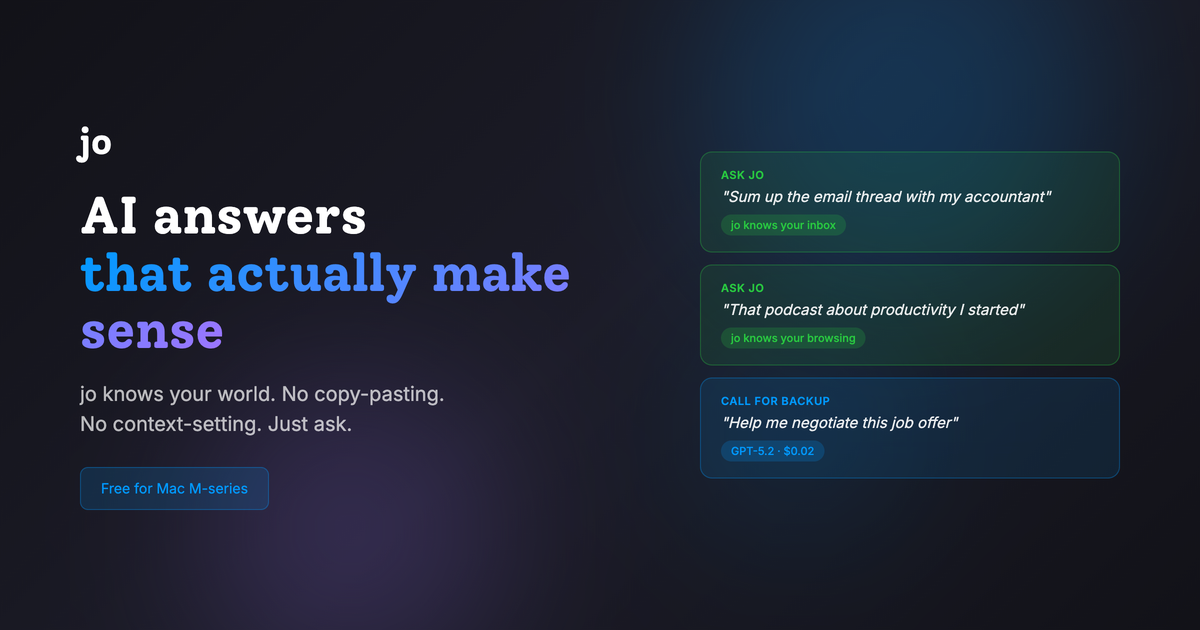
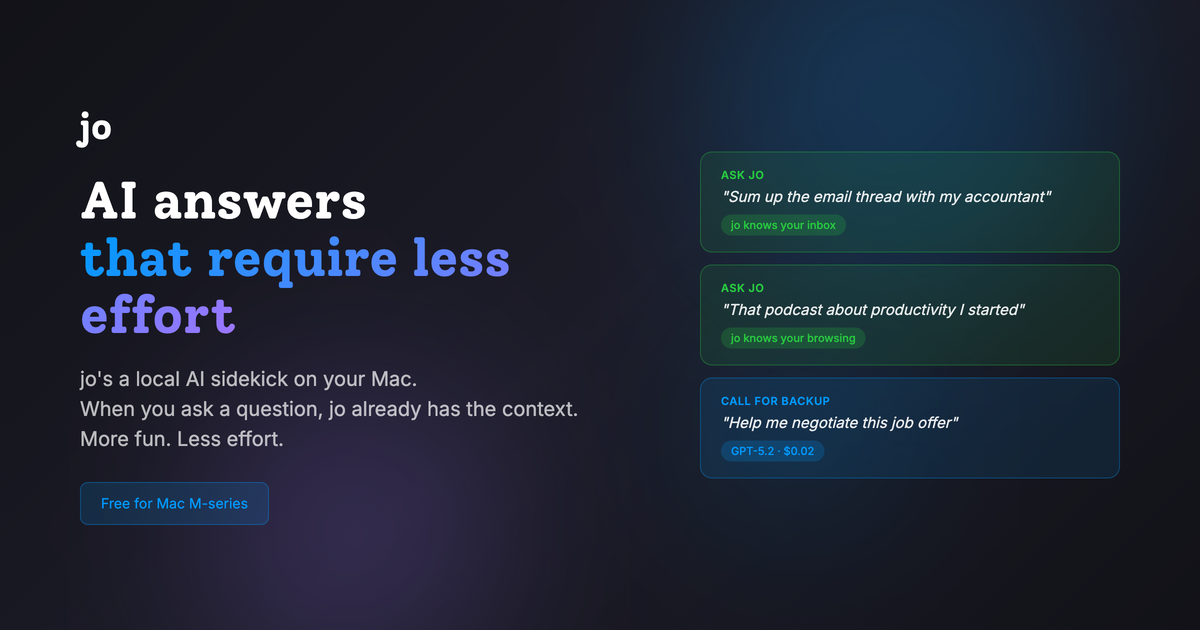
Update OG image with new headline and subtext
- "AI answers that require less effort"
- "jo's a local AI sidekick on your Mac..."

🤖 Generated with [Claude Code](https://claude.com/claude-code)

Changed region(s): [[0.0617, 0.181, 0.4933, 0.8444]]

diff --git a/og-image.html b/og-image.html
@@ -194,9 +194,9 @@
             <div class="logo">jo</div>
             <h1 class="headline">
                 AI answers<br>
-                <span class="gradient">that actually make sense</span>
+                <span class="gradient">that require less effort</span>
             </h1>
-            <p class="tagline">jo knows your world. No copy-pasting.<br>No context-setting. Just ask.</p>
+            <p class="tagline">jo's a local AI sidekick on your Mac.<br>When you ask a question, jo already has the context.<br>More fun. Less effort.</p>
             <div class="cta-badge">
                 <span>Free for Mac M-series</span>
             </div>
